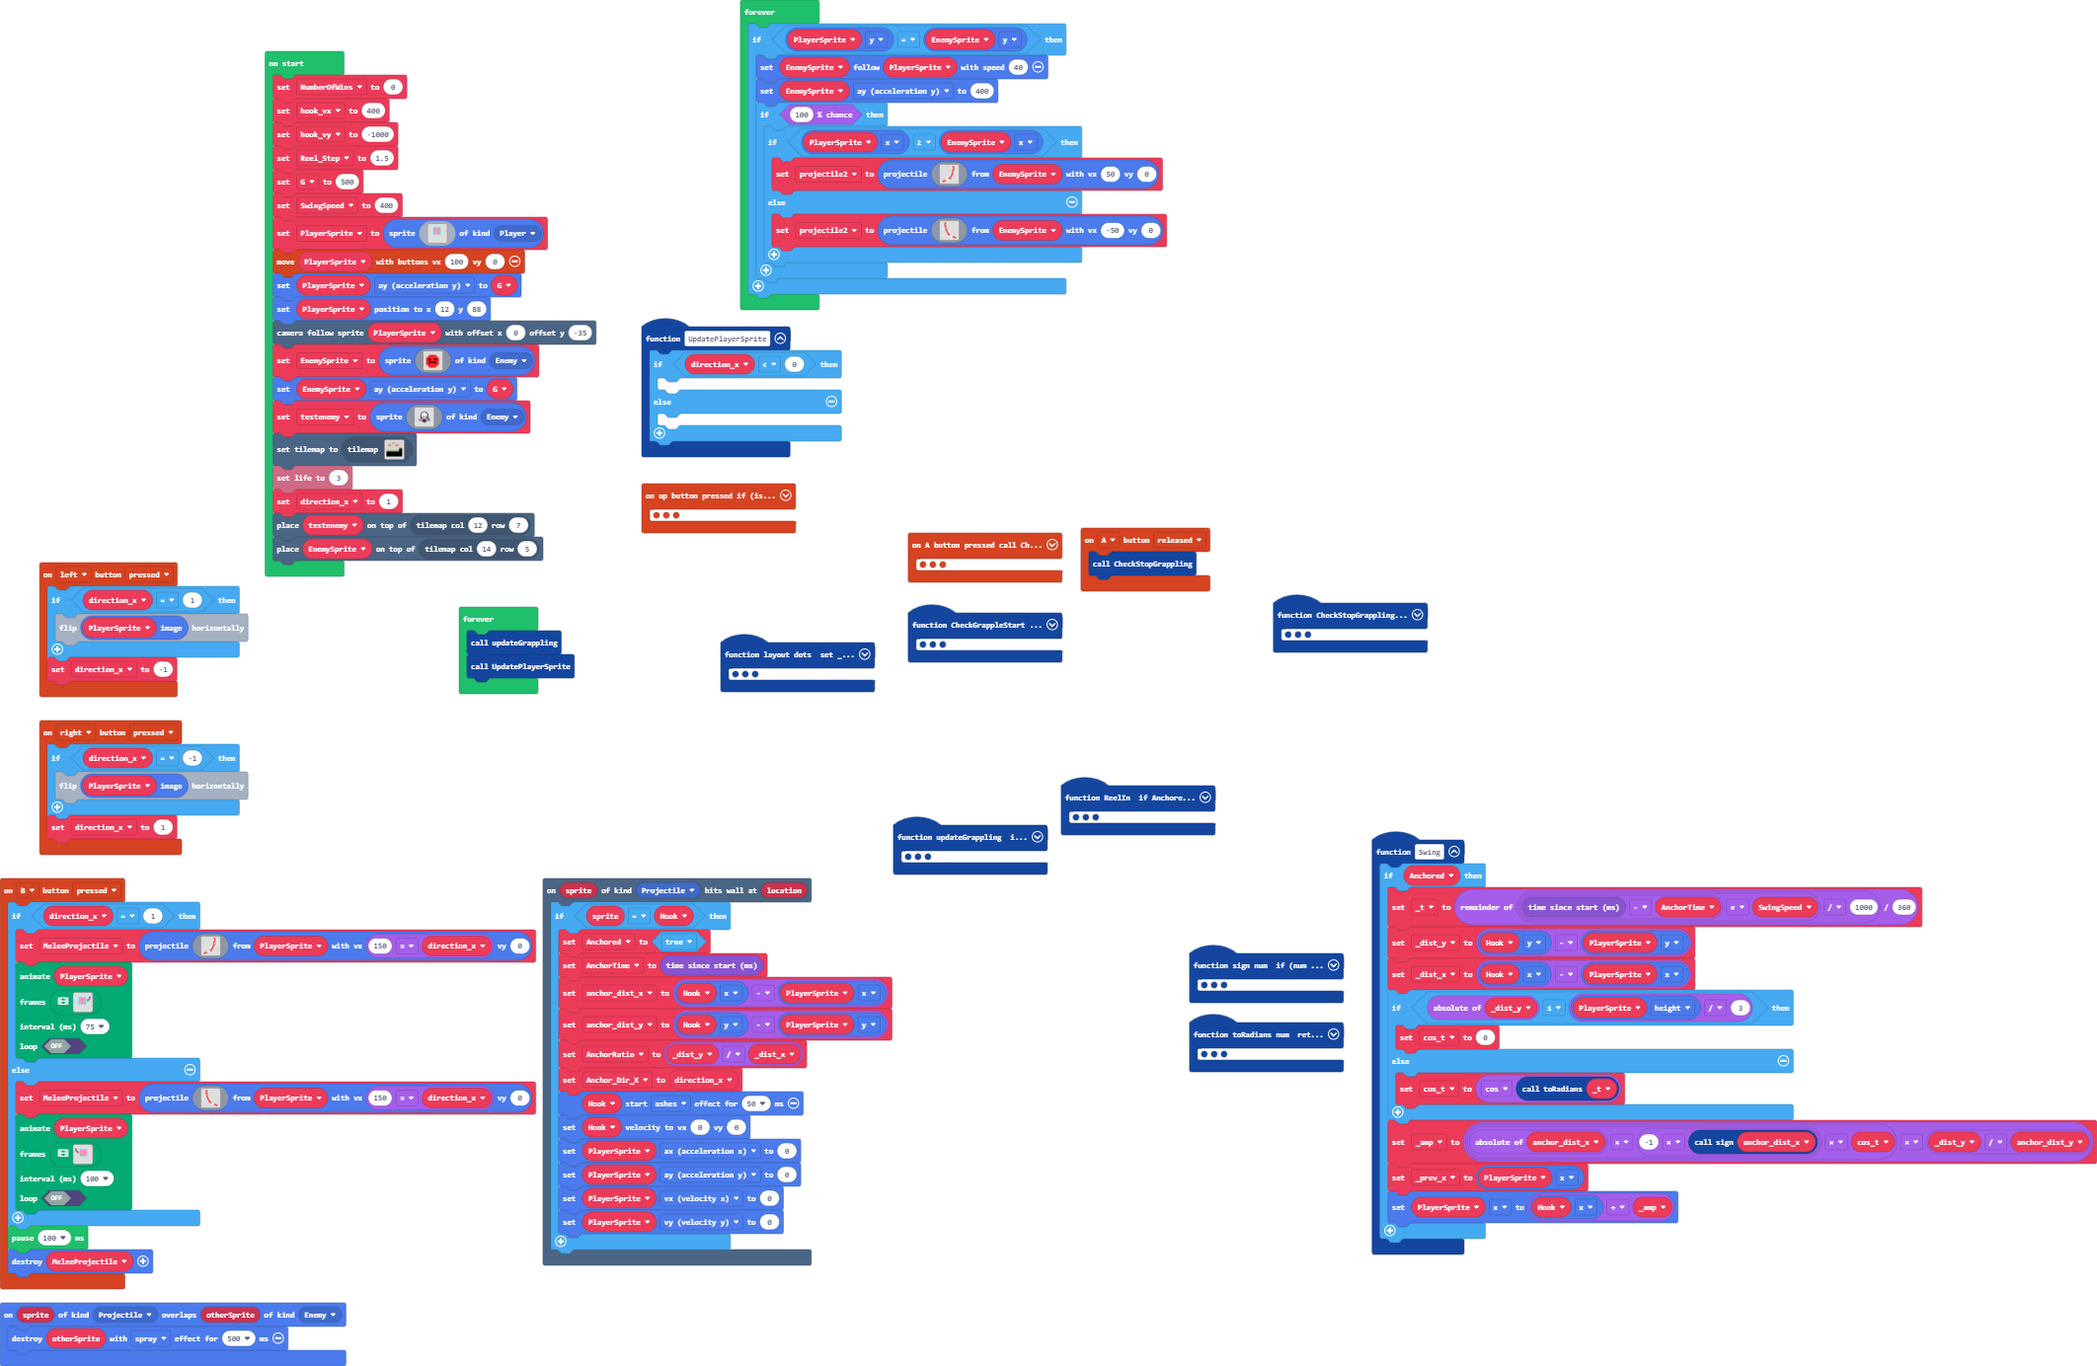
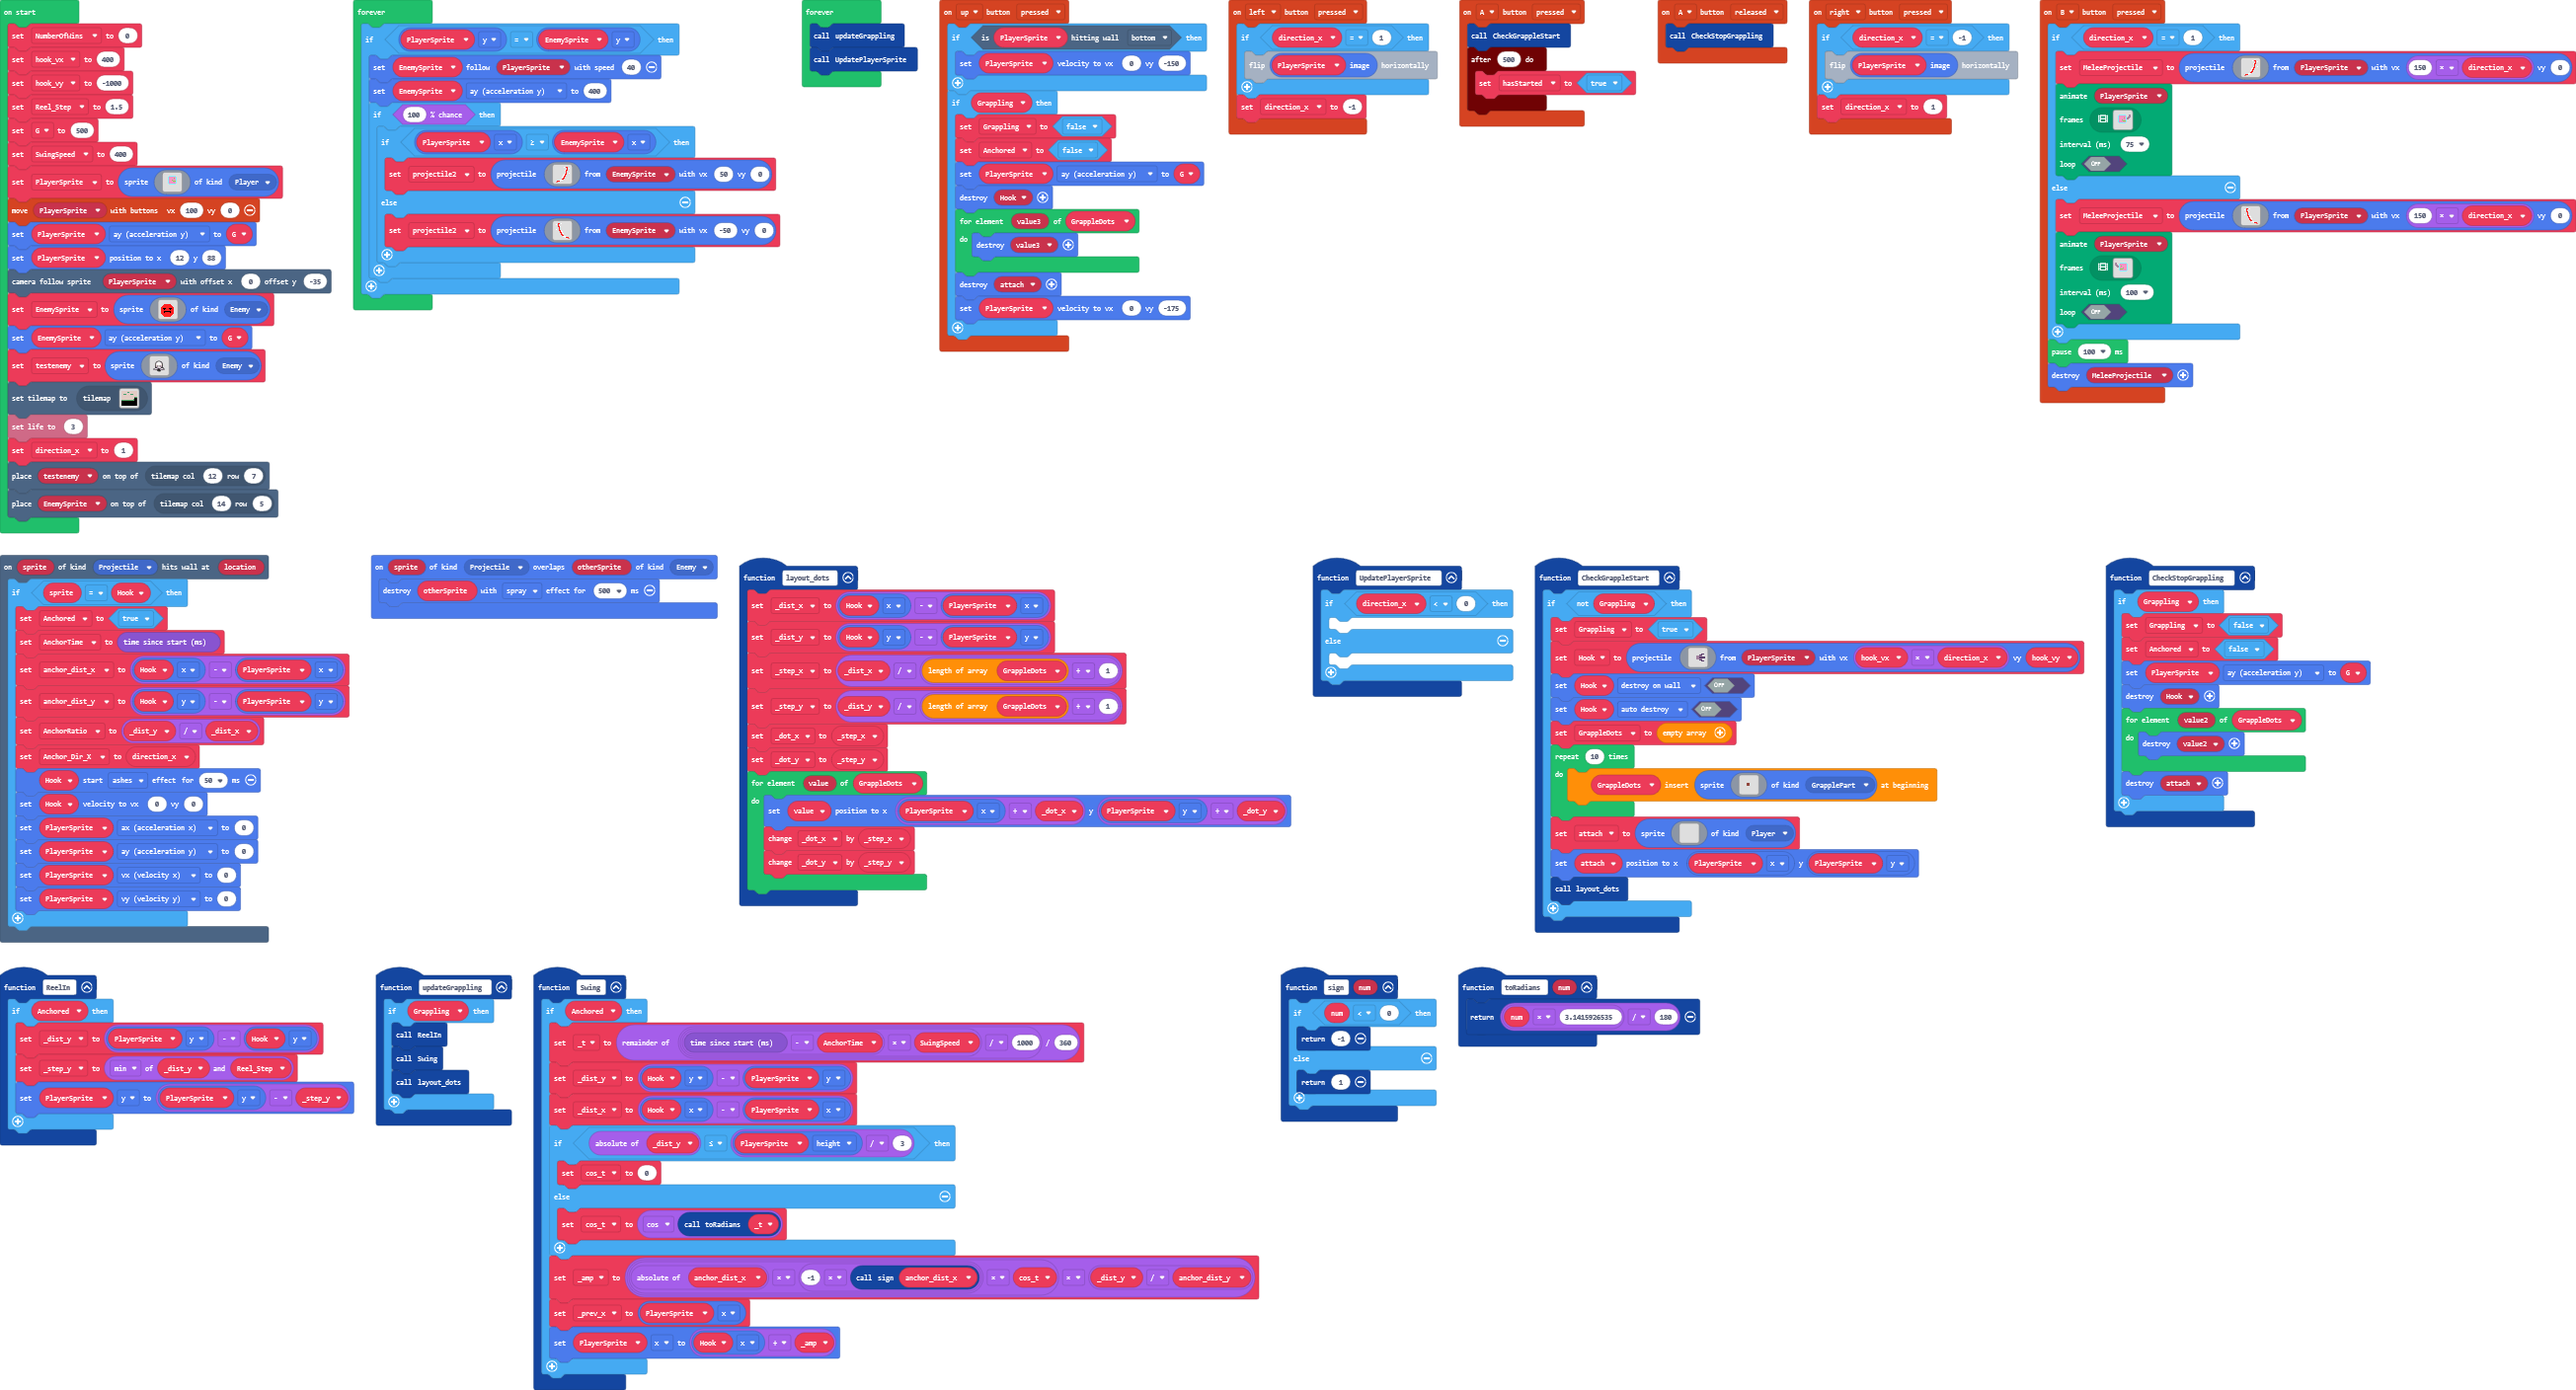
Update main.blocks, main.ts, tilemap.g.jres, tilemap.g.ts

diff --git a/tilemap.g.ts b/tilemap.g.ts
@@ -2,6 +2,10 @@
 namespace myTiles {
     //% fixedInstance jres blockIdentity=images._tile
     export const transparency16 = image.ofBuffer(hex``);
+    //% fixedInstance jres blockIdentity=images._tile
+    export const tile1 = image.ofBuffer(hex``);
+    //% fixedInstance jres blockIdentity=images._tile
+    export const tile2 = image.ofBuffer(hex``);
 
     helpers._registerFactory("tilemap", function(name: string) {
         switch(helpers.stringTrim(name)) {
@@ -43,6 +47,41 @@ namespace myTiles {
 . . . . . . . . . . . . . . . . 
 . . . . . . . . . . . . . . . . 
 `, [myTiles.transparency16,sprites.builtin.forestTiles1,sprites.builtin.forestTiles2,sprites.builtin.forestTiles5,sprites.builtin.forestTiles6,sprites.builtin.forestTiles7,sprites.builtin.forestTiles13,sprites.builtin.forestTiles15,sprites.builtin.forestTiles9,sprites.builtin.forestTiles11,sprites.builtin.forestTiles10,sprites.builtin.forestTiles21,sprites.builtin.forestTiles22,sprites.builtin.forestTiles23,sprites.builtin.forestTiles0,sprites.castle.tilePath5], TileScale.Sixteen);
+            case "level":
+            case "level3":return tiles.createTilemap(hex`100020000101010101010101010101010101010101020202020202020202020202020201010202020202020202020202020202010102020202020101010101010101010101020202020201010101010101010101010202020202020202020202020202010102020202020202020202020202020101010101010102020202020202020201010101010101010102020202020202010102020202020202020202020202020101020202020202020202020202020201010101010101010101020202010101010101010101010102020202020202020101020202020202020202020202020201010202020202020202020202020202010102020202020202020202020202020101020202020201010101010101010101010202020101010101010101010101010102020202020202020202020202020101020202020202020202020202020201010202020202020202020202020202010101010102020202020202020202020101010101010101010202020202020201010101010101020202020202020202010102020202020202020202020201010101020202020202020202020101010101010202020202020202020202020202010102020202020202020202020202020101020202020202020202020202020201010202020202020202020202020202010102020202020202020202020202020101010101010101010101010101010101`, img`
+2222222222222222
+2..............2
+2..............2
+2.....2222222222
+2.....2222222222
+2..............2
+2..............2
+222222.........2
+22222222.......2
+2..............2
+2..............2
+222222222...2222
+2222222........2
+2..............2
+2..............2
+2..............2
+2.....2222222222
+2...222222222222
+2..............2
+2..............2
+2..............2
+2222...........2
+22222222.......2
+222222.........2
+2............222
+2..........22222
+2..............2
+2..............2
+2..............2
+2..............2
+2..............2
+2222222222222222
+`, [myTiles.transparency16,myTiles.tile1,myTiles.tile2], TileScale.Sixteen);
         }
         return null;
     })
@@ -50,6 +89,10 @@ namespace myTiles {
     helpers._registerFactory("tile", function(name: string) {
         switch(helpers.stringTrim(name)) {
             case "transparency16":return transparency16;
+            case "myTile":
+            case "tile1":return tile1;
+            case "myTile0":
+            case "tile2":return tile2;
         }
         return null;
     })

diff --git a/main.ts b/main.ts
@@ -8,6 +8,22 @@ function ReelIn () {
         PlayerSprite.y = PlayerSprite.y - _step_y
     }
 }
+controller.up.onEvent(ControllerButtonEvent.Pressed, function () {
+    if (PlayerSprite.isHittingTile(CollisionDirection.Bottom)) {
+        PlayerSprite.setVelocity(0, -150)
+    }
+    if (Grappling) {
+        Grappling = false
+        Anchored = false
+        PlayerSprite.ay = G
+        sprites.destroy(Hook)
+        for (let value3 of GrappleDots) {
+            sprites.destroy(value3)
+        }
+        sprites.destroy(attach)
+        PlayerSprite.setVelocity(0, -175)
+    }
+})
 controller.B.onEvent(ControllerButtonEvent.Pressed, function () {
     if (direction_x == 1) {
         MeleeProjectile = sprites.createProjectileFromSprite(assets.image`AttackArc`, PlayerSprite, 150 * direction_x, 0)
@@ -68,6 +84,13 @@ controller.right.onEvent(ControllerButtonEvent.Pressed, function () {
 controller.A.onEvent(ControllerButtonEvent.Released, function () {
     CheckStopGrappling()
 })
+function updateGrappling () {
+    if (Grappling) {
+        ReelIn()
+        Swing()
+        layout_dots()
+    }
+}
 function layout_dots () {
     _dist_x = Hook.x - PlayerSprite.x
     _dist_y = Hook.y - PlayerSprite.y
@@ -81,41 +104,18 @@ function layout_dots () {
         _dot_y += _step_y
     }
 }
-function updateGrappling () {
-    if (Grappling) {
-        ReelIn()
-        Swing()
-        layout_dots()
-    }
-}
 function CheckStopGrappling () {
     if (Grappling) {
         Grappling = false
         Anchored = false
         PlayerSprite.ay = G
         sprites.destroy(Hook)
-        for (let value of GrappleDots) {
-            sprites.destroy(value)
+        for (let value2 of GrappleDots) {
+            sprites.destroy(value2)
         }
         sprites.destroy(attach)
     }
 }
-controller.up.onEvent(ControllerButtonEvent.Pressed, function () {
-    if (PlayerSprite.isHittingTile(CollisionDirection.Bottom)) {
-        PlayerSprite.setVelocity(0, -150)
-    }
-    if (Grappling) {
-        Grappling = false
-        Anchored = false
-        PlayerSprite.ay = G
-        sprites.destroy(Hook)
-        for (let value of GrappleDots) {
-            sprites.destroy(value)
-        }
-        sprites.destroy(attach)
-        PlayerSprite.setVelocity(0, -175)
-    }
-})
 scene.onHitWall(SpriteKind.Projectile, function (sprite, location) {
     if (sprite == Hook) {
         Anchored = true
@@ -184,11 +184,8 @@ sprites.onOverlap(SpriteKind.Projectile, SpriteKind.Enemy, function (sprite, oth
 let projectile2: Sprite = null
 let Anchor_Dir_X = 0
 let AnchorRatio = 0
-let attach: Sprite = null
-let Grappling = false
 let _dot_y = 0
 let _dot_x = 0
-let GrappleDots: Sprite[] = []
 let _step_x = 0
 let _prev_x = 0
 let anchor_dist_y = 0
@@ -200,6 +197,9 @@ let AnchorTime = 0
 let _t = 0
 let hasStarted = false
 let MeleeProjectile: Sprite = null
+let attach: Sprite = null
+let GrappleDots: Sprite[] = []
+let Grappling = false
 let _step_y = 0
 let Hook: Sprite = null
 let _dist_y = 0
